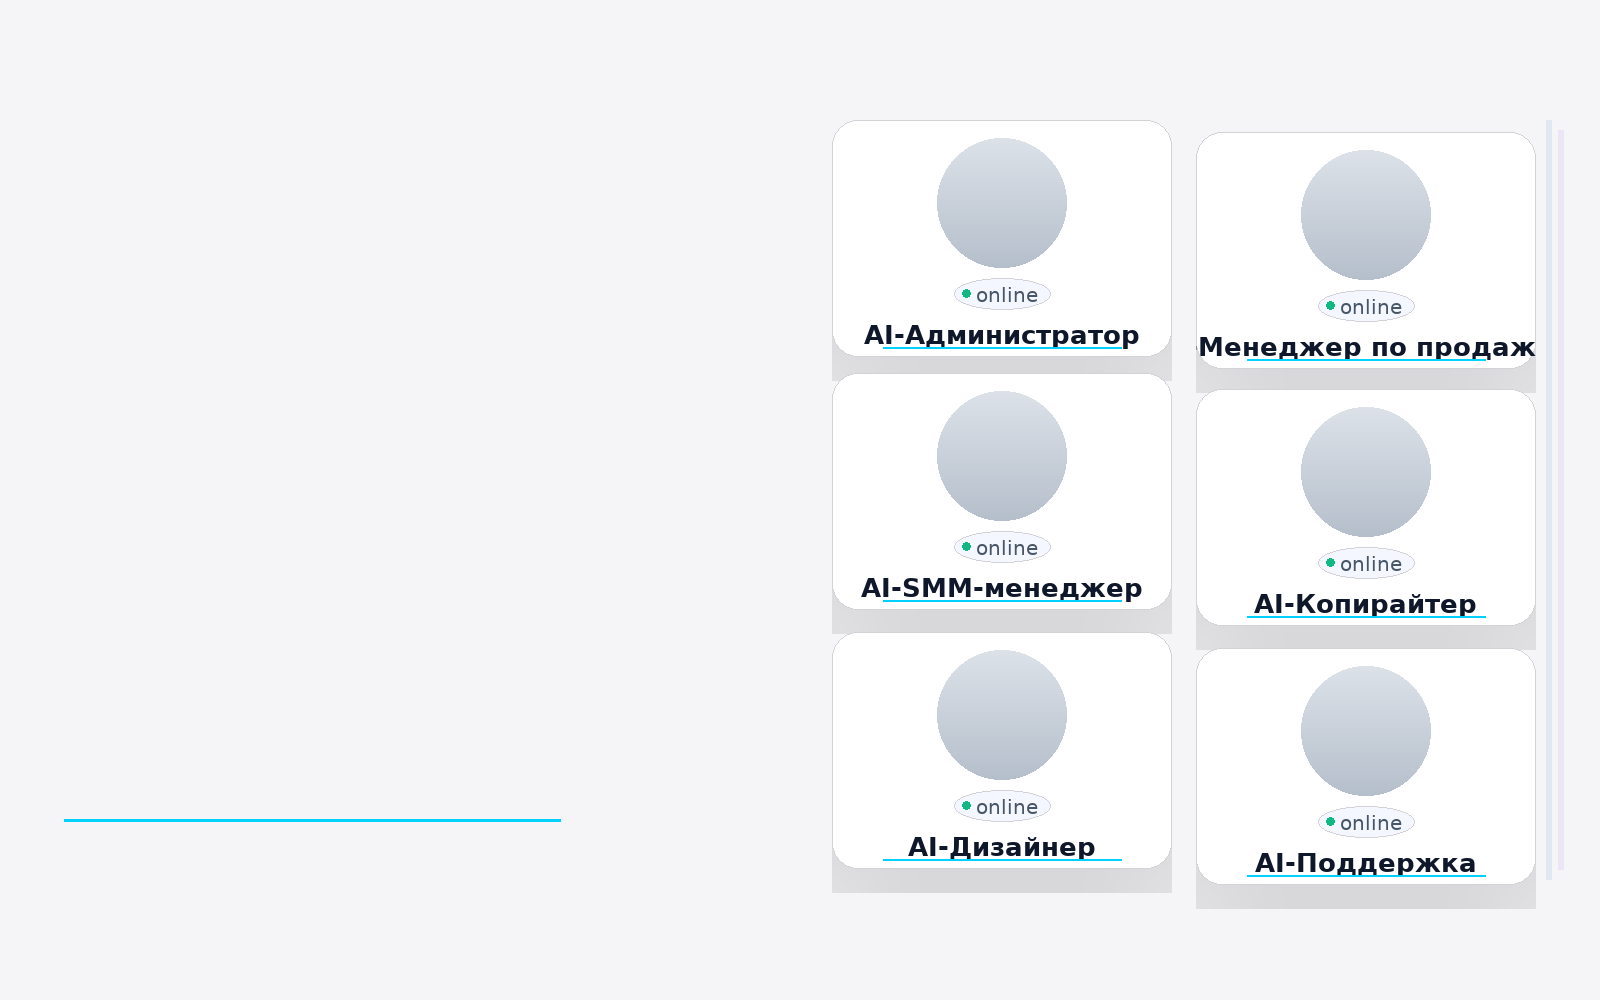
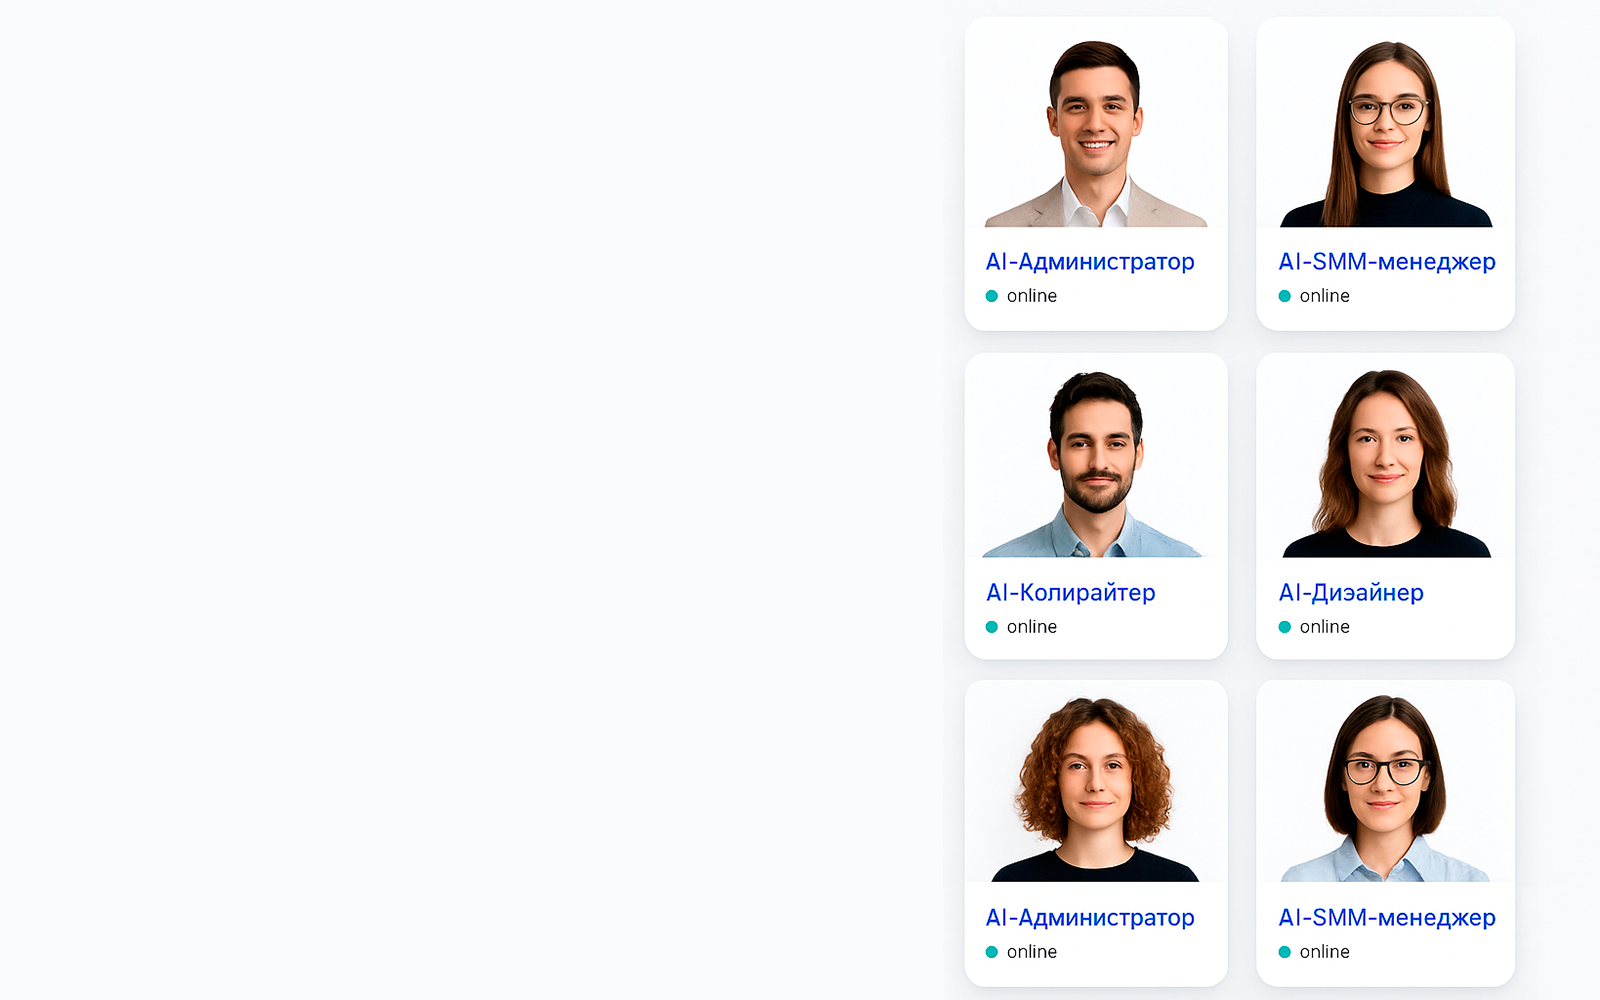
Add files via upload

Changed region(s): [[0.5, 0.031, 0.9688, 0.961]]

diff --git a/index.html b/index.html
@@ -10,19 +10,11 @@
   <meta property="og:description" content="Соберите команду из AI‑сотрудников: администратор, продажи, SMM, копирайтер, дизайнер, ассистент, аналитик, юрист, финансист, техподдержка.">
   <meta property="og:type" content="website">
   <meta property="og:url" content="https://aiemployee.by/">
-  <link rel="stylesheet" href="assets/css/styles.css?v=20250818215817">
-  <link rel="stylesheet" href="assets/css/styles_additions.css?v=20250818215817">
-  <style>
-    /* hero grid to place artwork on the right */
-    .hero .container { display:grid; grid-template-columns: 1fr minmax(520px, 640px); gap: 28px; align-items:center; }
-    .hero-art picture, .hero-art img { width:100%; height:auto; display:block; }
-    @media (max-width: 960px) {
-      .hero .container { grid-template-columns: 1fr; }
-      .hero-art { order: 2; }
-    }
-  </style>
+  <link rel="stylesheet" href="assets/css/styles.css?v=build-20250818T220921Z">
+  <link rel="stylesheet" href="assets/css/styles_additions.css?v=build-20250818T220921Z">
 </head>
 <body>
+  <!-- build-20250818T220921Z -->
   <header class="site">
     <div class="container row">
       <div><strong>AiEmployee</strong></div>
@@ -37,8 +29,8 @@
   </header>
 
   <section class="hero" id="home">
-    <div class="container">
-      <div>
+    <div class="container hero-grid">
+      <div class="hero-copy">
         <h1>AiEmployee — платформа для найма AI‑сотрудников</h1>
         <p>Снижайте расходы до 90% и ускоряйте бизнес в 10 раз с помощью виртуальных сотрудников.</p>
         <div class="cta">
@@ -49,12 +41,138 @@
       <div class="hero-art" aria-hidden="true">
         <picture>
           <source srcset="assets/img/hero-collage-1600x1000.webp" type="image/webp">
-          <img src="assets/img/hero-collage-1600x1000.png" alt="Минималистичный коллаж карточек AI‑сотрудников">
+          <img src="assets/img/hero-collage-1600x1000.png" alt="" loading="eager" width="1600" height="1000">
         </picture>
       </div>
     </div>
   </section>
 
-  <!-- The rest of the page should follow your latest index (how/advantages/catalog/etc.) -->
+  <section class="section how" id="how">
+    <div class="container">
+      <h2>Как это работает</h2>
+      <div class="accent-line"></div>
+
+      <div class="how-steps" role="list">
+        <div class="how-step" role="listitem">
+          <div class="how-icon" aria-hidden="true">
+            <svg viewBox="0 0 24 24" width="44" height="44" fill="none" stroke="currentColor" stroke-width="1.8">
+              <path d="M16 19v-1a4 4 0 0 0-4-4H8a4 4 0 0 0-4 4v1" />
+              <circle cx="10" cy="7" r="3" />
+              <path d="M20 19v-1a4 4 0 0 0-3-3.87" />
+              <path d="M15 3.13a3 3 0 0 1 0 5.74" />
+            </svg>
+            <span class="how-num">1</span>
+          </div>
+          <div class="how-caption">Выберите сотрудников</div>
+          <p class="how-text">Откройте каталог и добавьте нужные роли в «Ваша команда».</p>
+        </div>
+
+        <div class="how-step" role="listitem">
+          <div class="how-icon" aria-hidden="true">
+            <svg viewBox="0 0 24 24" width="44" height="44" fill="none" stroke="currentColor" stroke-width="1.8">
+              <path d="M9 7V3"/><path d="M15 7V3"/><rect x="7" y="7" width="10" height="6" rx="2"/>
+              <path d="M3 14v2a5 5 0 0 0 5 5h8a5 5 0 0 0 5-5v-2"/>
+            </svg>
+            <span class="how-num">2</span>
+          </div>
+          <div class="how-caption">Подключите интеграции</div>
+          <p class="how-text">Свяжем с Telegram, CRM и e‑mail. Запуск — за минуты.</p>
+        </div>
+
+        <div class="how-step" role="listitem">
+          <div class="how-icon" aria-hidden="true">
+            <svg viewBox="0 0 24 24" width="44" height="44" fill="none" stroke="currentColor" stroke-width="1.8">
+              <path d="M5 19l4-1 9-9a3 3 0 0 0-4-4l-9 9-1 4z"/><path d="M7 17l-2 2"/><path d="M15 7l2 2"/>
+            </svg>
+            <span class="how-num">3</span>
+          </div>
+          <div class="how-caption">Начните работу</div>
+          <p class="how-text">Сотрудники готовы выполнять задачи сразу после подключения.</p>
+        </div>
+      </div>
+    </div>
+  </section>
+
+  <section class="section catalog" id="catalog">
+    <div class="container">
+      <h2>Каталог сотрудников (ТОП‑10)</h2>
+      <div class="accent-line"></div>
+      <div class="grid">
+        <!-- ...сохраните ваши карточки как в текущем репозитории... -->
+      </div>
+    </div>
+  </section>
+
+  <section class="section" id="advantages">
+    <div class="container">
+      <h2>Преимущества</h2>
+      <div class="accent-line"></div>
+      <div class="bullets adv-contrast">
+        <div class="item"><b>Экономия до 90% на зарплатах</b> — без лишних расходов на найм и HR.</div>
+        <div class="item"><b>Рост эффективности в 5–10 раз</b> — скорость обработки задач в секунды.</div>
+        <div class="item"><b>Доступ 24/7</b> — сотрудники всегда готовы к работе.</div>
+        <div class="item"><b>Проактивность</b> — дают развёрнутые ответы, советуют решения.</div>
+        <div class="item"><b>Всегда в нужном тоне</b> — поддерживают заданный стиль общения.</div>
+        <div class="item"><b>Обучаемость</b> — осваивают материалы за секунды.</div>
+        <div class="item"><b>Идеальная память</b> — помнят всё, что вы сообщали ранее.</div>
+        <div class="item"><b>Удобная интеграция</b> — запуск за минуты.</div>
+      </div>
+    </div>
+  </section>
+
+  <section class="section" id="cases">
+    <div class="container">
+      <h2>Кейсы внедрения AI‑сотрудников</h2>
+      <div class="accent-line"></div>
+      <div class="casegrid">
+        <article class="case"><h3>Кейс 1</h3><p>Подключили AI‑админ + продажи. Ответ — 30 сек, конверсия +40%.</p></article>
+        <article class="case"><h3>Кейс 2</h3><p>AI‑SMM + копирайтер: 60 постов за 2 недели, вовлечённость +55%.</p></article>
+        <article class="case"><h3>Кейс 3</h3><p>AI‑финансист + аналитик: отчёты с 6 ч до 15 мин.</p></article>
+      </div>
+    </div>
+  </section>
+
+  <section class="section faq" id="faq">
+    <div class="container">
+      <h2>FAQ</h2>
+      <div class="accent-line"></div>
+      <details><summary>Могут ли AI‑сотрудники полностью заменить человека?</summary><p>AI закрывает рутину; человек важен для стратегии.</p></details>
+      <details><summary>Как быстро начнут работать?</summary><p>В день подключения.</p></details>
+      <details><summary>Можно обучить под мой бизнес?</summary><p>Да, по вашим материалам.</p></details>
+    </div>
+  </section>
+
+  <footer class="footer">
+    <div class="container grid">
+      <div><h3>Контакты</h3><p>info@aiemployee.by</p></div>
+      <div><h3>Соцсети</h3><p><a href="https://t.me/aiemployee_by" target="_blank" rel="noopener">Telegram</a></p></div>
+      <div><h3>© 2025 AiEmployee</h3></div>
+    </div>
+  </footer>
+
+  <button class="float-cart" id="floatOpen" aria-label="Ваша команда">
+    <span>Ваша команда</span><span class="count" id="floatCount">0</span>
+  </button>
+
+  <div class="aside">
+    <div class="backdrop" id="backdrop"></div>
+    <aside class="panel">
+      <div style="display:flex;justify-content:space-between;align-items:center">
+        <h3 id="panelTitle">Ваша команда (0)</h3>
+        <button class="btn ghost" id="closeAside">Закрыть</button>
+      </div>
+      <div class="list" id="selList"></div>
+      <form class="form" id="leadForm">
+        <label>Имя и должность</label><input name="name" placeholder="Иван Петров, основатель">
+        <label>Контактные данные</label><input name="contact" placeholder="+375..., email или Telegram">
+        <label>Комментарий</label><textarea name="comment" placeholder="Коротко о задачах, сроках, интеграциях"></textarea>
+        <p class="small">Если токен Telegram не настроен — текст заявки скопируется в буфер обмена.</p>
+        <button class="btn btn-primary" id="sendBtn" type="submit">Отправить заявку</button>
+      </form>
+    </aside>
+  </div>
+
+  <script src="assets/js/config.js?v=build-20250818T220921Z"></script>
+  <script src="assets/js/app.js?v=build-20250818T220921Z"></script>
 </body>
 </html>

diff --git a/assets/css/styles_additions.css b/assets/css/styles_additions.css
@@ -1,5 +1,17 @@
-/* === PATCH: HOW + ADV === */
-/* Honor user accent override: --accent inherits current value (e.g. #475569) */
+/* === Scoped additions (safe) === */
+
+/* Hero grid — scoped to hero only */
+.hero .container.hero-grid{
+  display:grid;
+  grid-template-columns: 1fr minmax(520px, 640px);
+  gap: 28px;
+  align-items:center;
+}
+.hero-art picture, .hero-art img{ width:100%; height:auto; display:block; border-radius:12px; }
+@media (max-width: 960px){
+  .hero .container.hero-grid{ grid-template-columns: 1fr; }
+  .hero-art{ order:2; }
+}
 
 /* HOW — steps row */
 .how-steps{
@@ -10,42 +22,24 @@
 .how-steps::before{
   content:"";position:absolute;left:8px;right:8px;top:40px;height:2px;
   background:linear-gradient(90deg,var(--accent) 0%, var(--accent) 60%, transparent 60%);
-  background-size: calc(33.33% - 16px) 2px; background-repeat:repeat-x;
-  opacity:.35;
+  background-size: calc(33.33% - 16px) 2px; background-repeat:repeat-x; opacity:.35;
 }
 .how-step{display:grid;justify-items:center;text-align:center;padding:10px}
-.how-icon{
-  position:relative;display:grid;place-items:center;
-  width:72px;height:72px;border-radius:50%;
-  color:var(--accent);background:#eef2ff; /* light halo */
-  border:1px solid var(--border); box-shadow:0 4px 14px rgba(2,6,23,.07);
-}
-.how-num{
-  position:absolute;right:-6px;bottom:-6px; width:26px;height:26px;
-  display:grid;place-items:center;border-radius:999px;
-  background:var(--color-primary);color:#fff;font-weight:700;
-  border:2px solid #fff;
-}
-.how-caption{margin-top:10px;font-weight:700;color:var(--text)}
-.how-text{margin:6px 0 0;color:var(--muted)}
-
+.how-icon{ position:relative;display:grid;place-items:center; width:72px;height:72px;border-radius:50%;
+  color:var(--accent);background:#eef2ff;border:1px solid var(--border); box-shadow:0 4px 14px rgba(2,6,23,.07); }
+.how-num{ position:absolute;right:-6px;bottom:-6px; width:26px;height:26px; display:grid;place-items:center;border-radius:999px;
+  background:var(--color-primary);color:#fff;font-weight:700;border:2px solid #fff; }
+.how-caption{margin-top:10px;font-weight:700;color:var(--text)} .how-text{margin:6px 0 0;color:var(--muted)}
 @media (max-width:768px){
-  .how-steps{grid-template-columns:1fr}
-  .how-steps::before{display:none}
+  .how-steps{grid-template-columns:1fr} .how-steps::before{display:none}
   .how-step{justify-items:start;text-align:left;grid-template-columns:72px 1fr;gap:12px}
   .how-caption,.how-text{justify-self:start;text-align:left}
 }
 
 /* ADV — higher-contrast cards */
 .adv-contrast .item{
-  background:#fff;
-  border:2px solid #cbd5e1; /* stronger */
-  border-radius:16px;
-  box-shadow:0 2px 0 rgba(2,6,23,.05), 0 10px 30px rgba(2,6,23,.06);
-  position:relative;overflow:hidden;
+  background:#fff;border:2px solid #cbd5e1;border-radius:16px;
+  box-shadow:0 2px 0 rgba(2,6,23,.05), 0 10px 30px rgba(2,6,23,.06); position:relative;overflow:hidden;
 }
-.adv-contrast .item::after{
-  content:"";position:absolute;left:0;top:0;width:56px;height:3px;
-  background:var(--accent);opacity:.8;border-radius:0 0 6px 0;
-}
+.adv-contrast .item::after{ content:"";position:absolute;left:0;top:0;width:56px;height:3px;background:var(--accent);opacity:.8;border-radius:0 0 6px 0; }
 .adv-contrast .item b{color:#0f172a}
